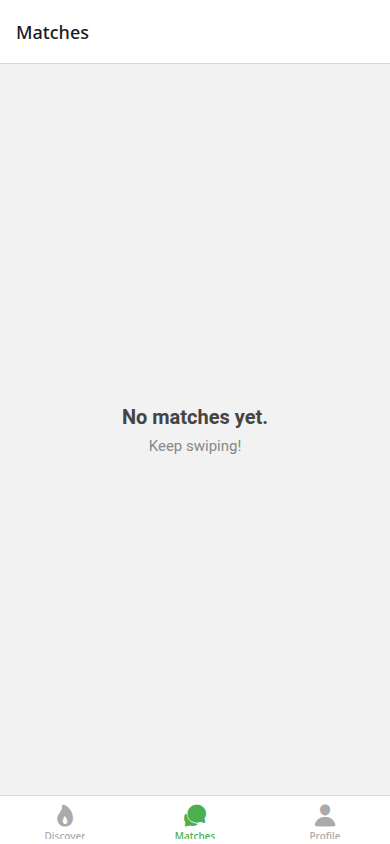
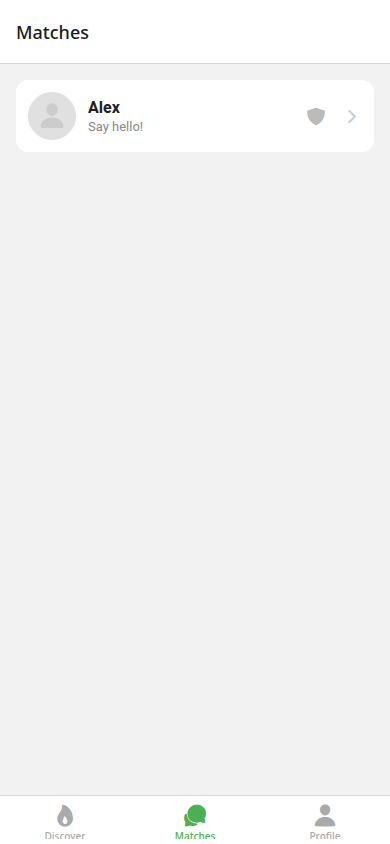
Add chat screenshot to README

diff --git a/README.md b/README.md
@@ -4,9 +4,9 @@ A React Native dating app built with Expo. Browse profiles, match, and chat — 
 
 ## Screenshots
 
-| Phone Verify | Discover | Matches | Profile |
-|---|---|---|---|
-| ![Phone Verify](screenshots/phone-verify.png) | ![Discover](screenshots/discover.png) | ![Matches](screenshots/matches.png) | ![Profile](screenshots/profile.png) |
+| Phone Verify | Discover | Matches | Chat | Profile |
+|---|---|---|---|---|
+| ![Phone Verify](screenshots/phone-verify.png) | ![Discover](screenshots/discover.png) | ![Matches](screenshots/matches.png) | ![Chat](screenshots/chat.png) | ![Profile](screenshots/profile.png) |
 
 ## Features
 